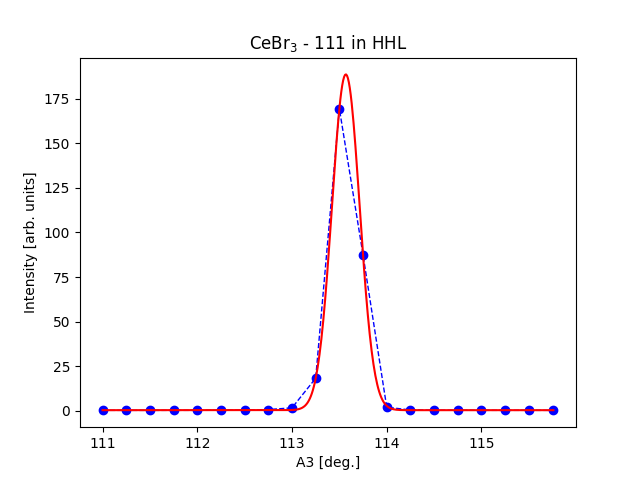
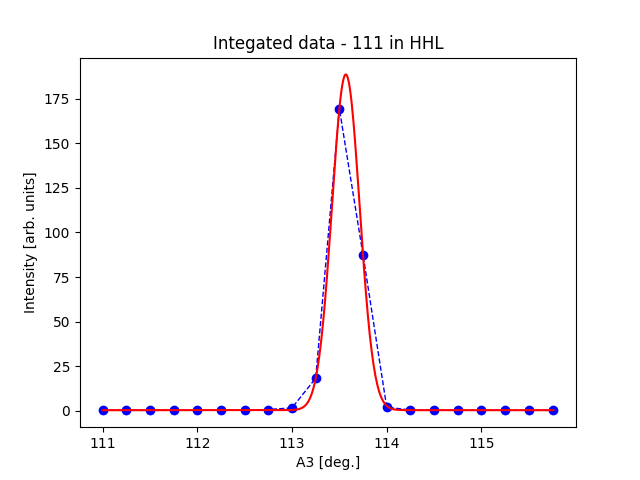
Update of box tutorial

Changed region(s): [[0.3125, 0.0625, 0.6875, 0.125]]

diff --git a/DMCpy/__init__.py b/DMCpy/__init__.py
@@ -3,7 +3,7 @@ sys.path.append('.')
 import pickle,numpy as np
 
 __version__ = '1.0.1'
-__author__ = 'Jakob Lass'
+__author__ = 'Jakob Lass, Sam Moody, Øystein S. Fjellvåg'
 
 # installFolder = os.path.abspath(os.path.split(__file__)[0])
 # calibrationFile =  os.path.join(installFolder,'calibrationDict.dat')

diff --git a/Tutorials/n_box.py b/Tutorials/n_box.py
@@ -80,7 +80,7 @@ def Tester():
     integrationKwargs = {
     'roi' : True,
     'saveFig' : r'docs/Tutorials/box/box1_',
-    'title' : r'CeBr$_3$',
+    'title' : r'Integated data',
     'integrationList' : integrationList,
     'closeFigures' : True,
     'plane' : 'HHL'

diff --git a/docs/Tutorials/box/box.rst b/docs/Tutorials/box/box.rst
@@ -81,7 +81,7 @@ This tutorial demonstrate a primitive method for integrating Bragg peaks from si
    integrationKwargs = {
    'roi' : True,
    'saveFig' : r'docs/Tutorials/box/box1_',
-   'title' : r'CeBr$_3$',
+   'title' : r'Integated data',
    'integrationList' : integrationList,
    'closeFigures' : True,
    'plane' : 'HHL'
